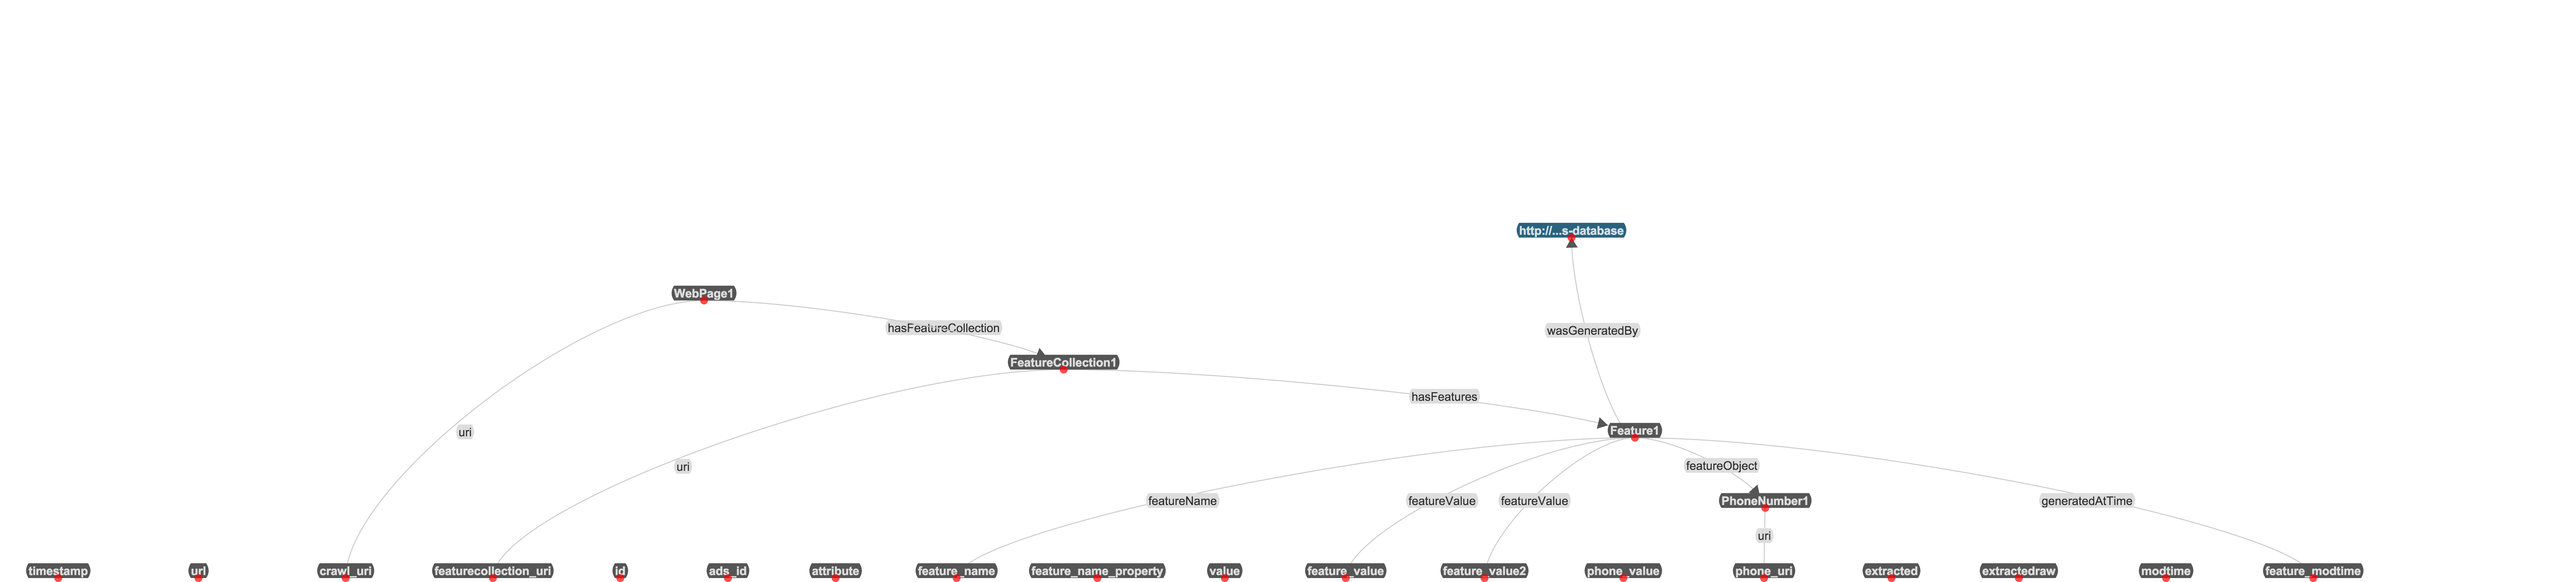
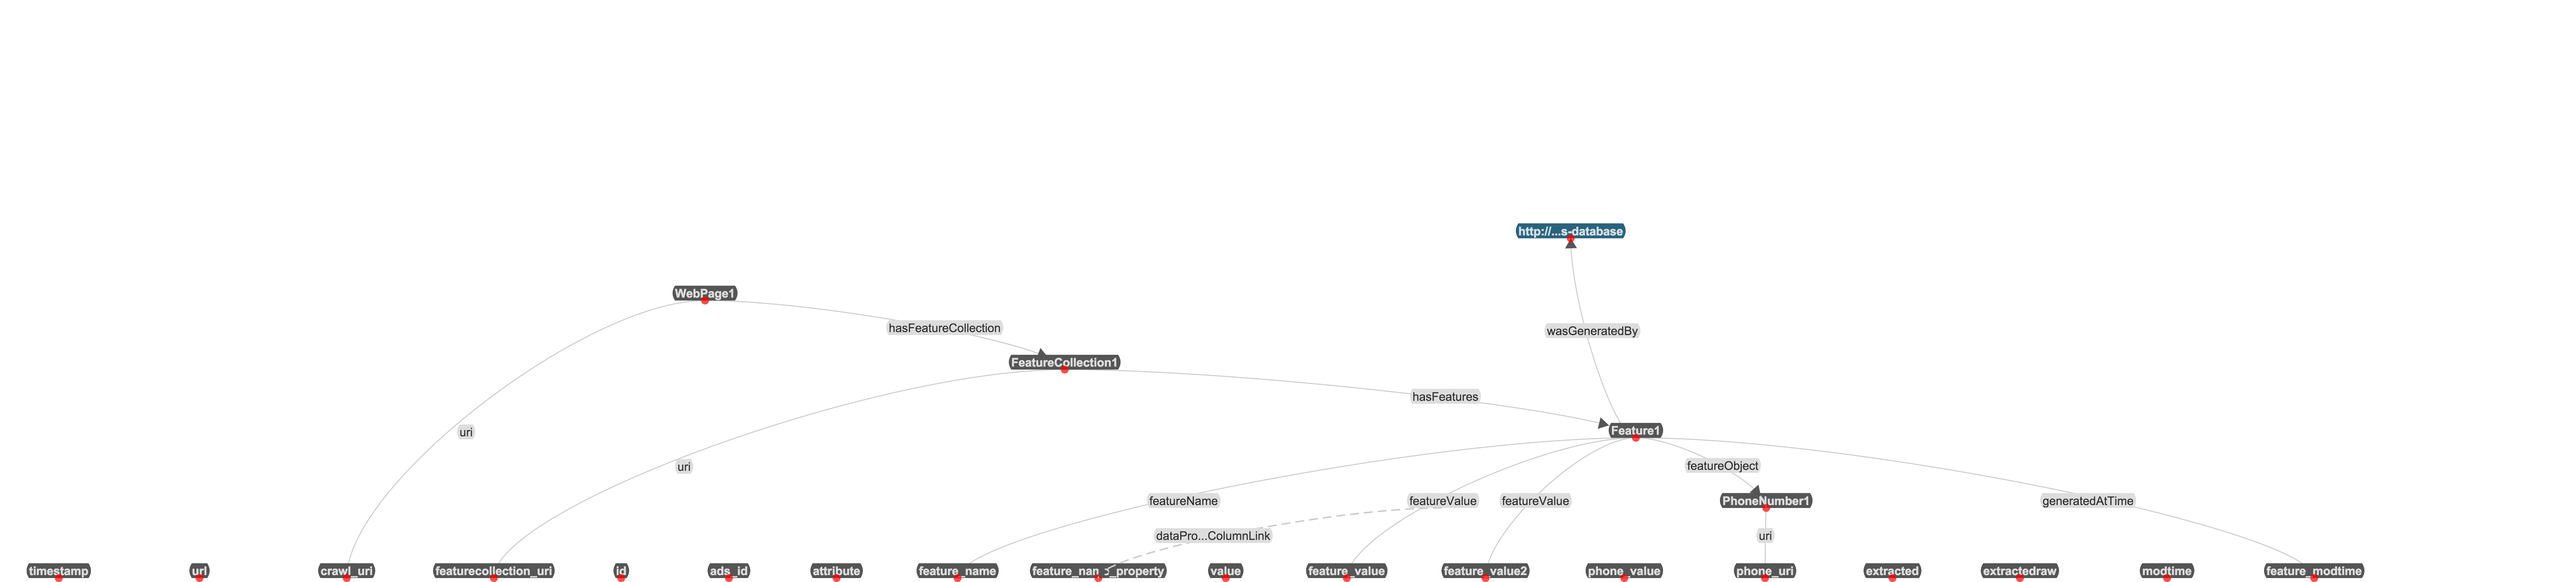
Add back the dataPropetyOfColumnLink, it got removed somehow.

diff --git a/datasets/istr/ads-attributes/ads-attributes-features-model.md b/datasets/istr/ads-attributes/ads-attributes-features-model.md
@@ -64,6 +64,7 @@ return phone_uri(getValue("phone_value"))
 | _crawl_uri_ | `uri` | `schema:WebPage1`|
 | _feature_modtime_ | `prov:generatedAtTime` | `memex:Feature1`|
 | _feature_name_ | `memex:featureName` | `memex:Feature1`|
+| _feature_name_property_ | `km-dev:dataPropertyOfColumnLink` | `memex:Feature1`|
 | _feature_value_ | `memex:featureValue` | `memex:Feature1`|
 | _feature_value2_ | `memex:featureValue` | `memex:Feature1`|
 | _featurecollection_uri_ | `uri` | `memex:FeatureCollection1`|
